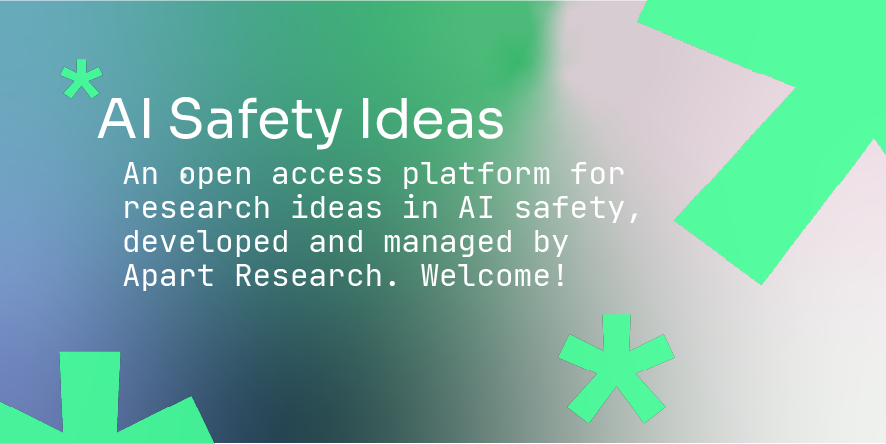
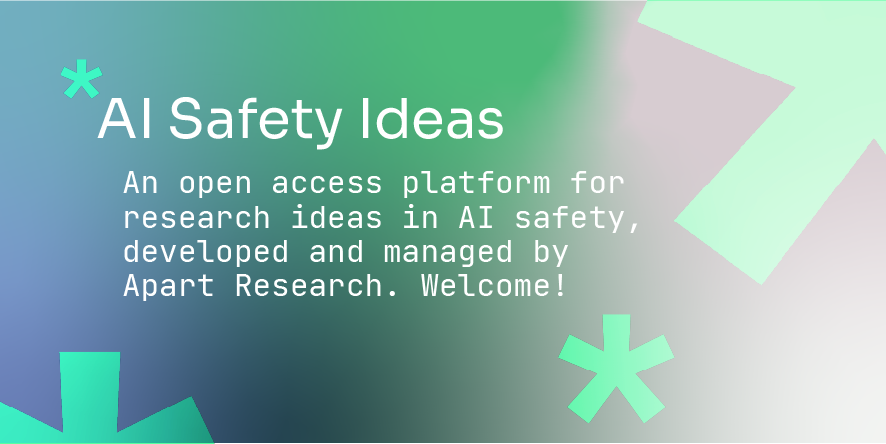
Search functionality and ogimage updates

diff --git a/src/lib/Nav.svelte b/src/lib/Nav.svelte
@@ -14,10 +14,10 @@
             alt="AI safety ideas logo"
             class="nav-logo"
           />
+          <h1 class="logotext">
+            {logoText}
+          </h1>
         </a>
-        <h1 class="logotext">
-          {logoText}
-        </h1>
       </li>
 
       <li
@@ -58,6 +58,25 @@
     padding: 5px;
   }
 
+  .nav-logo-link {
+    display: flex;
+    flex-direction: row;
+    align-items: center;
+    justify-content: center;
+    column-gap: 0.75em;
+  }
+
+  .nav-logo-link > h1 {
+    margin: 0;
+  }
+
+  .sticky-nav {
+    background: none;
+    background: linear-gradient(#44ff9899 0%, #44ff9800 100%);
+    /* border-bottom: 1px solid #999; */
+    padding-bottom: 0;
+  }
+
   .sticky-nav .nav-grid {
     display: flex;
     flex-direction: row;
@@ -82,6 +101,10 @@
     text-decoration: none;
   }
 
+  a {
+    color: #000;
+  }
+
   /* Mobile */
   @media screen and (max-width: 768px) {
     .sticky-nav {
@@ -101,10 +124,6 @@
       margin: 0;
       padding: 0;
       left: 0;
-    }
-
-    .open {
-      width: 100%;
     }
   }
 </style>

diff --git a/src/routes/index.svelte b/src/routes/index.svelte
@@ -214,7 +214,7 @@
         String(idea.title)
           .toLowerCase()
           .includes(String(query).toLowerCase()) ||
-        String(idea.description)
+        String(idea.summary)
           .toLowerCase()
           .includes(String(query).toLowerCase()) ||
         String(idea.author).toLowerCase().includes(String(query).toLowerCase())
@@ -267,12 +267,10 @@
   </p>
   <div class="search-sort">
     <div class="search">
-      <Search bind:value={searchValue} hideLabel />
       {#if searchValue}
-        <button on:click={() => (searchValue = "")}
-          >Clear "{searchValue}"</button
-        >
+        <button on:click={() => (searchValue = "")}> Clear search </button>
       {/if}
+      <Search bind:value={searchValue} hideLabel />
     </div>
     <div class="sort">
       <Select
@@ -410,6 +408,7 @@
   .search-sort {
     display: flex;
     flex-direction: row;
+    align-items: flex-end;
     margin: 0;
     padding: 0;
     margin-top: -0.2em;
